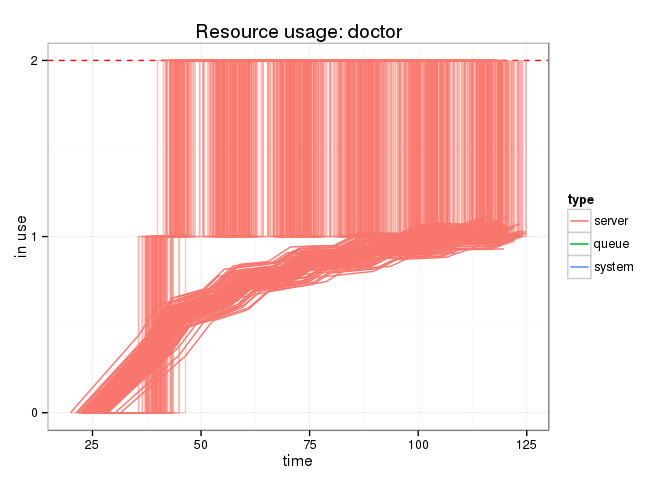
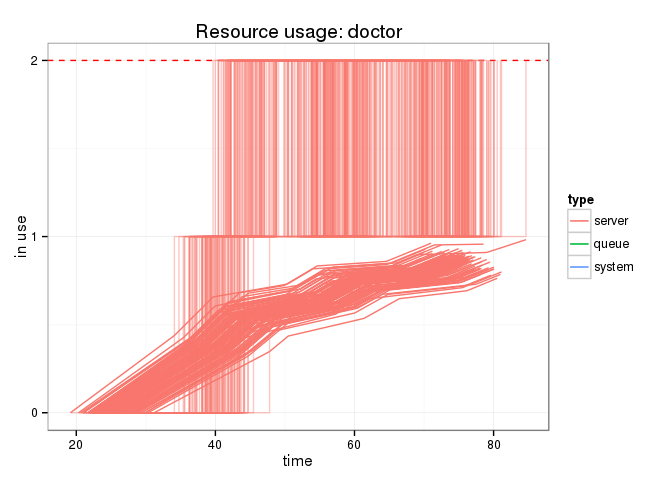
updated TODO

diff --git a/README.html b/README.html
@@ -39,9 +39,9 @@
 <pre class="r"><code>simmer$run(until=80)</code></pre>
 <p>It is possible to resume the execution simply by specifying a longer run-time. Below, we continue the execution until 120 time units.</p>
 <pre class="r"><code>simmer$run(until=120)</code></pre>
-<p>Also, if the simulation is heavy and you want to parallelize the execution of replicas, you can add the argument <code>parallel=n</code>, where <code>n</code> is the number of threads required (this functionality requires the package <a href="https://cran.r-project.org/web/packages/doParallel/">doParallel</a>). Let’s restart the execution from the beginning with 2 threads.</p>
+<p>Also, you can reset the simulation, flush all results, resources and generators, and restart from the beginning.</p>
 <pre class="r"><code>simmer$reset() $
-  run(until=120, parallel=2)</code></pre>
+  run(until=80)</code></pre>
 <div id="optional-activities" class="section level3">
 <h3>Optional activities</h3>
 <p>The <em>branch method</em> introduces the possibility of introducing probability in whether or not to include a branch in a trajectory. The following example shows how a trajectory can be build with a 50-50 chance for the arrival to undergo the second <em>time-out activity</em>.</p>
@@ -71,13 +71,13 @@
 <pre class="r"><code>head(
   simmer$get_mon_resources()
   )</code></pre>
-<pre><code>##       time server queue system resource replication
-## 1 11.79944      0     0      0    nurse           1
-## 2 19.22237      1     0      1    nurse           1
-## 3 27.37484      1     1      2    nurse           1
-## 4 29.50780      1     0      1    nurse           1
-## 5 40.57005      1     1      2    nurse           1
-## 6 42.65353      1     0      1    nurse           1</code></pre>
+<pre><code>##        time server queue system resource replication
+## 1  9.632495      0     0      0    nurse           1
+## 2 19.996576      1     0      1    nurse           1
+## 3 24.903438      1     1      2    nurse           1
+## 4 34.857134      1     0      1    nurse           1
+## 5 39.357929      1     1      2    nurse           1
+## 6 46.131391      1     0      1    nurse           1</code></pre>
 </div>
 <div id="flow-time" class="section level3">
 <h3>Flow time</h3>
@@ -89,13 +89,13 @@
 <pre class="r"><code>head(
   simmer$get_mon_arrivals()
   )</code></pre>
-<pre><code>##        name start_time  end_time activity_time finished replication
-## 1 patient12   11.79944  51.52696      39.72753     TRUE           1
-## 2 patient13   19.22237  65.72227      38.34743     TRUE           1
-## 3 patient14   29.50780  77.37782      36.80777     TRUE           1
-## 4 patient15   42.65353  94.06661      38.67649     TRUE           1
-## 5 patient16   52.08704 111.67755      41.21065     TRUE           1
-## 6 patient12   10.63929  50.44282      39.80353     TRUE           2</code></pre>
+<pre><code>##       name start_time end_time activity_time finished replication
+## 1 patient0   9.632495 48.66433      39.03183     TRUE           1
+## 2 patient1  19.996576 64.39549      39.49206     TRUE           1
+## 3 patient2  34.857134 78.29535      38.93742     TRUE           1
+## 4 patient0  10.414002 52.19673      41.78272     TRUE           2
+## 5 patient1  21.437187 66.46032      41.96828     TRUE           2
+## 6 patient2  28.745192 81.79729      39.55038     TRUE           2</code></pre>
 <p><strong>DOCUMENTATION TO BE CONTINUED</strong></p>
 </div>
 </div>

diff --git a/src/simulator.h b/src/simulator.h
@@ -80,7 +80,7 @@ public:
   }
   
   /**
-   * Reset the simulation: time, event queue, resources and statistics.
+   * Reset the simulation: time, event queue, resources, generators and statistics.
    */
   void reset() {
     now_ = 0;
@@ -92,6 +92,8 @@ public:
     }
     for (ResMap::iterator itr = resource_map.begin(); itr != resource_map.end(); ++itr)
       itr->second->reset();
+    for (GenVec::iterator itr = generator_vec.begin(); itr != generator_vec.end(); ++itr)
+      (*itr)->reset();
     delete arrival_stats;
     arrival_stats = new ArrStats();
   }

diff --git a/src/entity.h b/src/entity.h
@@ -77,6 +77,11 @@ public:
             Rcpp::Environment first_activity, Rcpp::Function dist): 
     Process(sim, name_prefix, mon), count(0), first_activity(first_activity), dist(dist) {}
   
+  /**
+   * Reset the generator: counter.
+   */
+  void reset() { count = 0; }
+  
   void activate();
   inline bool is_generator() { return 1; }
   inline int n_generated() { return count; }

diff --git a/README.md b/README.md
@@ -76,12 +76,12 @@ It is possible to resume the execution simply by specifying a longer run-time. B
 simmer$run(until=120)
 ```
 
-Also, if the simulation is heavy and you want to parallelize the execution of replicas, you can add the argument ```parallel=n```, where ```n``` is the number of threads required (this functionality requires the package [doParallel](https://cran.r-project.org/web/packages/doParallel/)). Let's restart the execution from the beginning with 2 threads.
+Also, you can reset the simulation, flush all results, resources and generators, and restart from the beginning.
 
 
 ```r
 simmer$reset() $
-  run(until=120, parallel=2)
+  run(until=80)
 ```
 
 ### Optional activities
@@ -142,13 +142,13 @@ head(
 ```
 
 ```
-##       time server queue system resource replication
-## 1 11.79944      0     0      0    nurse           1
-## 2 19.22237      1     0      1    nurse           1
-## 3 27.37484      1     1      2    nurse           1
-## 4 29.50780      1     0      1    nurse           1
-## 5 40.57005      1     1      2    nurse           1
-## 6 42.65353      1     0      1    nurse           1
+##        time server queue system resource replication
+## 1  9.632495      0     0      0    nurse           1
+## 2 19.996576      1     0      1    nurse           1
+## 3 24.903438      1     1      2    nurse           1
+## 4 34.857134      1     0      1    nurse           1
+## 5 39.357929      1     1      2    nurse           1
+## 6 46.131391      1     0      1    nurse           1
 ```
 
 ### Flow time
@@ -174,13 +174,13 @@ head(
 ```
 
 ```
-##        name start_time  end_time activity_time finished replication
-## 1 patient12   11.79944  51.52696      39.72753     TRUE           1
-## 2 patient13   19.22237  65.72227      38.34743     TRUE           1
-## 3 patient14   29.50780  77.37782      36.80777     TRUE           1
-## 4 patient15   42.65353  94.06661      38.67649     TRUE           1
-## 5 patient16   52.08704 111.67755      41.21065     TRUE           1
-## 6 patient12   10.63929  50.44282      39.80353     TRUE           2
+##       name start_time end_time activity_time finished replication
+## 1 patient0   9.632495 48.66433      39.03183     TRUE           1
+## 2 patient1  19.996576 64.39549      39.49206     TRUE           1
+## 3 patient2  34.857134 78.29535      38.93742     TRUE           1
+## 4 patient0  10.414002 52.19673      41.78272     TRUE           2
+## 5 patient1  21.437187 66.46032      41.96828     TRUE           2
+## 6 patient2  28.745192 81.79729      39.55038     TRUE           2
 ```
 
 **DOCUMENTATION TO BE CONTINUED**
